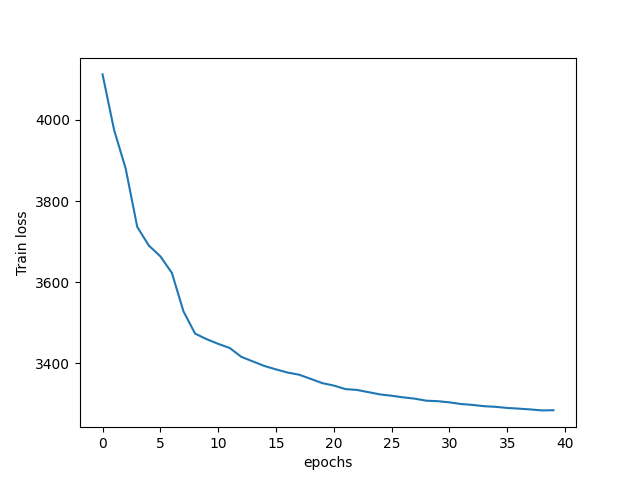
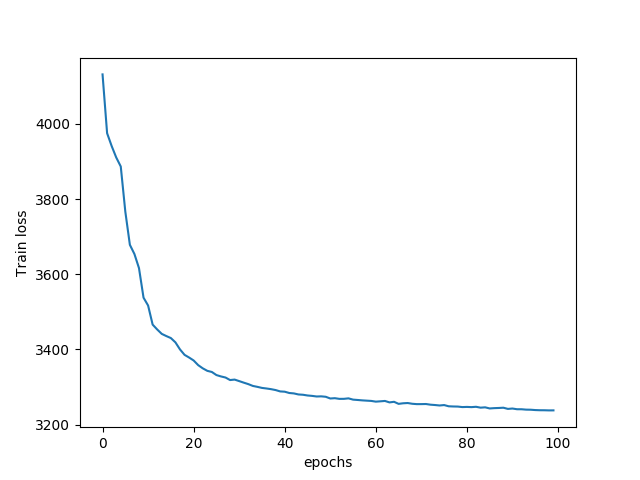
Add continuous training

diff --git a/main.py b/main.py
@@ -33,6 +33,13 @@ def main(args):
     optimizer = torch.optim.Adam(model.parameters(), 1e-3, weight_decay=1e-5)
     scheduler = torch.optim.lr_scheduler.CosineAnnealingLR(optimizer, T_max=len(train_loader), eta_min=0, last_epoch=-1)
 
+    # Load previous model
+    model_name = '0-' + str(epochs)
+    if (args.prev_model_dir != ''):
+        checkpoint = torch.load(args.prev_model_dir, map_location=device)
+        model.load_state_dict(checkpoint['model_state_dict'])
+        optimizer.load_state_dict(checkpoint['optimizer_state'])
+        model_name = str(checkpoint['epoch']) + "-" + str(checkpoint['epoch']+epochs)
     '''
     Model-- ResNet18(encoder network) + MLP with one hidden layer(projection head)
     Loss -- NT-Xent Loss
@@ -83,7 +90,7 @@ def main(args):
                 'model_state_dict': model.state_dict(),
                 'optimizer_state': optimizer.state_dict(),
                 'loss': best_loss
-            }, "./best_model.pt")
+            }, "./best_model" + model_name + ".pt")
             print("Model save")
         
 
@@ -141,6 +148,11 @@ if __name__ == '__main__':
     parser.add_argument(
         '--no_save',
         action='store_true'
+    )
+    parser.add_argument(
+        '--prev_model_dir',
+        type=str,
+        default=''
     )
 
     args = parser.parse_args()
